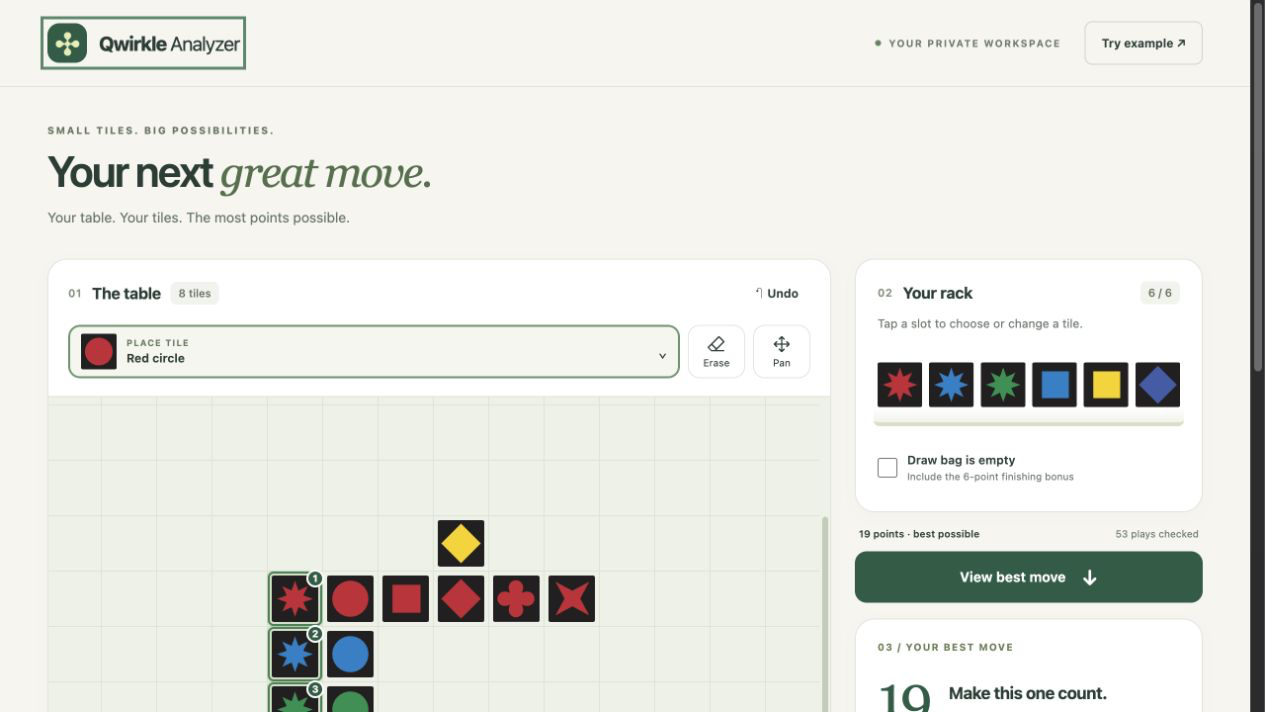
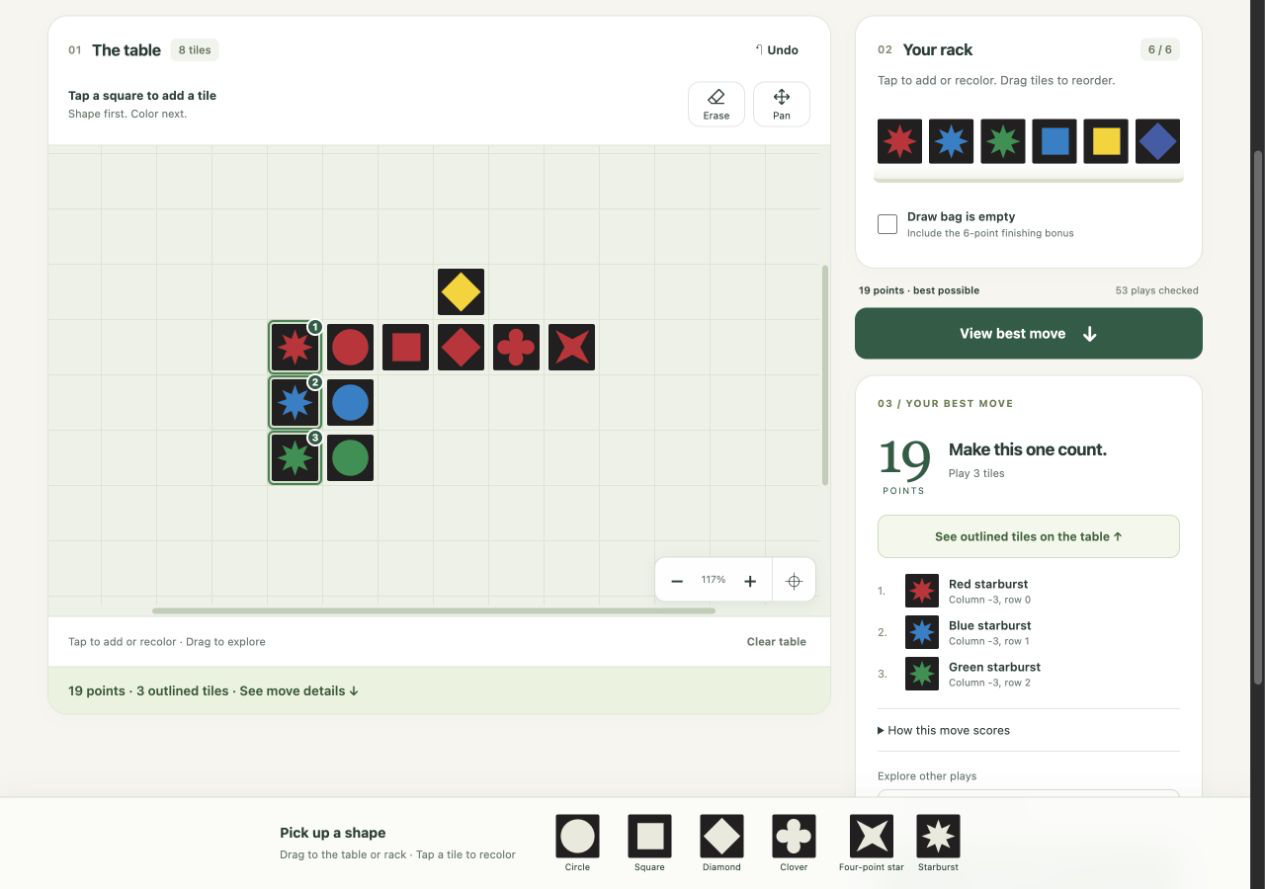
Document the faster editor with updated UI screenshots

diff --git a/README.md b/README.md
@@ -11,19 +11,20 @@
 ## What it does
 
 - **Exhaustive move search:** evaluates legal placements and ranks them by this turn’s points, including Qwirkle and finishing bonuses.
-- **Editable table and rack:** choose colors and shapes, place or erase tiles, pan, zoom, and undo edits.
+- **Fast position entry:** tap a square → shape → color, or drag from the permanent six-shape tray onto the table or rack. Tap existing tiles to recolor them.
 - **Explainable results:** numbered previews, per-line scoring, tied-best counts, and up to 100 alternative plays.
-- **Mobile-friendly controls:** a bottom-sheet tile picker, large rack targets, and a persistent analysis button.
+- **Mobile-friendly controls:** a two-step bottom-sheet picker, a fixed shape tray, draggable rack order, and keyboard alternatives.
 - **Browser-local state:** analysis runs in a cancellable Web Worker; the current position is saved in local storage.
 - **Minimal stack:** plain HTML, CSS, ES modules, and a small Node.js server. No npm dependencies, accounts, API keys, or frontend build step.
 
 ## Mobile UI
 
-Actual screenshots of the running app: choosing a tile and reviewing the best move.
+Actual screenshots of the running app: choose a shape, choose its color, then review the best move.
 
 <p>
-  <img src="docs/images/mobile-picker.png" alt="Mobile bottom-sheet picker with six colors and six original Qwirkle shapes" width="280">
-  <img src="docs/images/mobile-analysis.png" alt="Mobile analysis showing a 19-point move using three starburst tiles" width="280">
+  <img src="docs/images/mobile-shapes.png" alt="First step: choose one of six original Qwirkle shapes" width="250">
+  <img src="docs/images/mobile-picker.png" alt="Second step: choose one of six colors for the selected shape" width="250">
+  <img src="docs/images/mobile-analysis.png" alt="Mobile analysis showing a 19-point move using three starburst tiles" width="250">
 </p>
 
 The built-in example checks **53 legal plays** and finds a **19-point** best move. Search duration varies by device. Screenshot refresh instructions are in [Contributing](CONTRIBUTING.md#updating-screenshots).
@@ -50,20 +51,28 @@ Serve the app over HTTP using the command above; opening `dist/index.html` direc
 
 ## Using the analyzer
 
-1. Select **Try example** for a quick tour, or tap the tile above the table, choose a color and shape, then tap table squares to recreate your position.
-2. Tap a rack slot to add a tile. Tap a filled slot to replace it or choose **Remove from rack**.
+1. Select **Try example** for a quick tour, or tap an empty table square, choose one of six shapes, then choose its color. The tile is placed immediately.
+2. Add rack tiles the same way. Drag rack tiles to rearrange them. Tap any existing table or rack tile to recolor it, change its shape, or remove it.
 3. Check **Draw bag is empty** only when no tiles remain to draw. The 6-point finishing bonus applies only if a move also empties your rack.
 4. Select **Find best move**. Use **See outlined tiles on the table** to inspect its placement, **How this move scores** for the breakdown, and **Explore other plays** for alternatives.
 5. **Apply this move** updates the table and rack. Enter newly drawn tiles yourself. **Undo** restores the previous edit, including clears, example loads, and applied moves.
 
 | Control | Action |
 | --- | --- |
-| Tap or click a table square | Place the selected tile, or erase while Erase is active |
+| Tap an empty square or rack slot | Choose a shape, then a color |
+| Tap a placed tile | Choose its color; optionally change its shape or remove it |
+| Drag a shape from the fixed tray | Place it on a board square or rack slot, replacing an existing tile if occupied |
+| Tap a tray shape, then a destination | Place without dragging; choose the color in the popup |
+| Drag a rack tile onto another rack slot | Reorder the rack; dropping on an empty slot moves it to the end |
+| Alt + Left / Right on a rack tile | Reorder with the keyboard; the tile popup also has Move buttons |
 | Drag or swipe the table | Explore the board; Pan mode pauses placement |
 | Right-click, Delete, or Backspace | Remove a table tile |
 | Arrow keys on a table square | Move keyboard focus through the grid |
 | − / + / Fit table to view | Adjust the board view |
-| Escape in the tile picker | Close without choosing a tile |
+| Escape in the tile picker or during a drag | Cancel without changing the position |
+| Erase, then tap a table tile | Remove it from the table |
+
+Dragged shapes use the last color chosen in the current session (red initially). Tap the placed tile to select another color. Hover near a board or page edge while dragging to scroll; dropping outside the table or rack cancels. Rack tiles drag within the rack. All edits, including replacements and reordering, support **Undo**.
 
 Positions are saved per browser and origin. Localhost, the public demo, and another device have separate saved positions. Clearing browser storage removes the saved position; undo history lasts only for the current page session. Board and rack data are not uploaded, and the app includes no analytics or external font requests.
 
@@ -79,7 +88,7 @@ The engine enumerates horizontal and vertical segments of up to six tiles, tries
 npm test
 ```
 
-The suite uses Node’s built-in test runner. It covers position validation, openings, gap filling, crossings, multiple Qwirkles, finishing bonuses, comparisons against an independent brute-force search, and the HTTP server’s routes and shutdown behavior.
+The suite uses Node’s built-in test runner. It covers position validation, openings, gap filling, crossings, multiple Qwirkles, finishing bonuses, comparisons against an independent brute-force search, rack reordering and saved-position recovery, and the HTTP server’s routes and shutdown behavior.
 
 Edit files in `dist/` directly and reload the browser; this directory contains the application source, not a build artifact. Changes to `server.mjs` require restarting the server. See [Contributing](CONTRIBUTING.md) for the development workflow and UI checks.
 

diff --git a/CONTRIBUTING.md b/CONTRIBUTING.md
@@ -22,23 +22,28 @@ Run `npm test` and `git diff --check` before submitting a pull request. Add regr
 For UI changes, check these interactions in a modern browser at phone and desktop sizes:
 
 - Load the example and analyze: expect 53 legal plays and a 19-point best move.
-- Choose, replace, and remove rack tiles; place and erase table tiles.
+- Tap an empty square or rack slot: shape first, color second; Escape must cancel without placing.
+- Tap existing board and rack tiles to recolor, change shape, or remove them.
+- Drag all tray shapes onto board squares and empty/occupied rack slots; check outside-drop and Escape cancellation.
+- Reorder rack tiles by dragging in both directions, including duplicate tiles and drops on empty slots. Check Alt + arrow keys and the popup Move buttons.
+- Check mouse and touch input: drag highlighting, edge-hover scrolling, and no accidental popup after a drop.
+- Select a tray shape, then tap a destination to place without dragging.
 - Drag the table without placing a tile; test Pan, zoom, and fit.
 - Preview an alternative, apply a move, and undo it.
-- Reload and confirm the position persists; verify empty-rack guidance.
+- Reload and confirm unfinished positions (including invalid lines) and rack order persist; verify empty-rack guidance.
 - Navigate the grid with arrow keys, delete a tile, and close the picker with Escape.
 - Check narrow screens (320–390 px), landscape, and desktop for overflow or covered controls.
 
-The automated suite covers the rules and server; these browser checks are manual. The deployment workflow runs on pushes to `main` and manual runs on `main`, not on pull requests. Run the checks locally for a contribution. Merging into `main` triggers a production deployment in the upstream repository.
+The automated suite covers the rules, editor state, and server; these browser checks are manual. The deployment workflow runs on pushes to `main` and manual runs on `main`, not on pull requests. Run the checks locally for a contribution. Merging into `main` triggers a production deployment in the upstream repository.
 
 ## Updating screenshots
 
 The README uses real captures in `docs/images/`. Refresh them when the visible UI changes:
 
 1. Run the local app and choose **Try example**, then **Find best move**. Do not apply the move.
-2. Capture the desktop workspace with the suggested tiles and rack visible as `desktop-analysis.png`.
+2. Use **See outlined tiles on the table** and capture the desktop workspace with the suggested tiles, rack, and fixed tray visible as `desktop-analysis.png`.
 3. At a 390 × 844 mobile viewport, capture the result as `mobile-analysis.png`.
-4. Open the table tile picker and capture it as `mobile-picker.png`.
+4. Tap an empty table square and capture the shape step as `mobile-shapes.png`. Choose a shape and capture the color step as `mobile-picker.png`; cancel to leave the example unchanged.
 5. Review each image, keep the existing names, and verify the README renders them. Use actual screenshots without fabricated UI or scores; rendering and capture scale may vary by browser.
 
 The current images were captured on 2026-10-15. They are documentation assets only: the static server and Docker build do not include them.

diff --git a/docs/ARCHITECTURE.md b/docs/ARCHITECTURE.md
@@ -25,11 +25,13 @@ flowchart LR
 | `dist/index.html` | Semantic page layout and tile-picker dialog |
 | `dist/styles.css` | Responsive layout, touch controls, focus and reduced-motion styling |
 | `dist/app.js` | Editing, undo history, local persistence, worker lifecycle, move previews |
+| `dist/editor-state.js` | Safe restoration of unfinished positions and immutable rack reordering |
 | `dist/engine.js` | Position validation, scoring, exhaustive move enumeration |
 | `dist/worker.js` | Worker message boundary and elapsed search time |
 | `dist/tile-art.js` | Shared original tile silhouettes and reference colors |
 | `server.mjs` | Static route allowlist, health endpoint, graceful shutdown |
 | `test/engine.test.js` | Rules and independent brute-force comparisons |
+| `test/editor-state.test.js` | Saved-position recovery and rack order regression tests |
 | `test/server.test.js` | HTTP assets, allowed methods, file restrictions and shutdown |
 
 New browser assets must be added to the allowlist in `server.mjs` and its server test. Repository documentation and screenshots are not served by the app or included in the Docker build context.
@@ -41,6 +43,14 @@ Board tiles contain `{ x, y, color, shape }`; rack tiles contain `{ color, shape
 The local-storage key is `qwirkle-analyzer-v1`, containing `{ board, rack, bagEmpty }`. The UI allows temporarily invalid positions during editing, then validates before searching. Up to 100 undo snapshots are kept in memory for the current page session; undo history and analysis results are not persisted.
 
 Analysis runs in a module Web Worker. Editing the position or cancelling the search terminates the worker and invalidates its preview. Applying a move adds its placements to the board and removes the matching rack tiles. New draws are entered manually.
+
+## Editor interactions
+
+An empty board square or rack slot opens the shape step, followed by a color step that commits the edit. Existing tiles open directly to colors. Cancelling the dialog leaves the position untouched. A selected tray shape skips the shape step for the next empty destination.
+
+The fixed tray uses Pointer Events for mouse, pen, and touch dragging. Tray drops use the last selected color (red at startup); existing destinations are replaced. Rack drags reorder rather than duplicate tiles. Pointer capture retains the gesture outside its source; a movement threshold separates clicks from drags, and a hover delay prevents edge scrolling from shifting targets during ordinary crossings. A ghost and destination outline give feedback. Pointer cancellation, window blur, Escape, and outside drops do not commit an edit. Rack order also supports Alt + arrow keys and popup Move buttons.
+
+Each completed edit takes one undo snapshot, invalidates analysis, and saves the position. The saved-state validator rejects malformed data while retaining temporarily illegal lines or disconnected boards, so unfinished setup survives reload.
 
 ## Rules and exhaustive search
 
